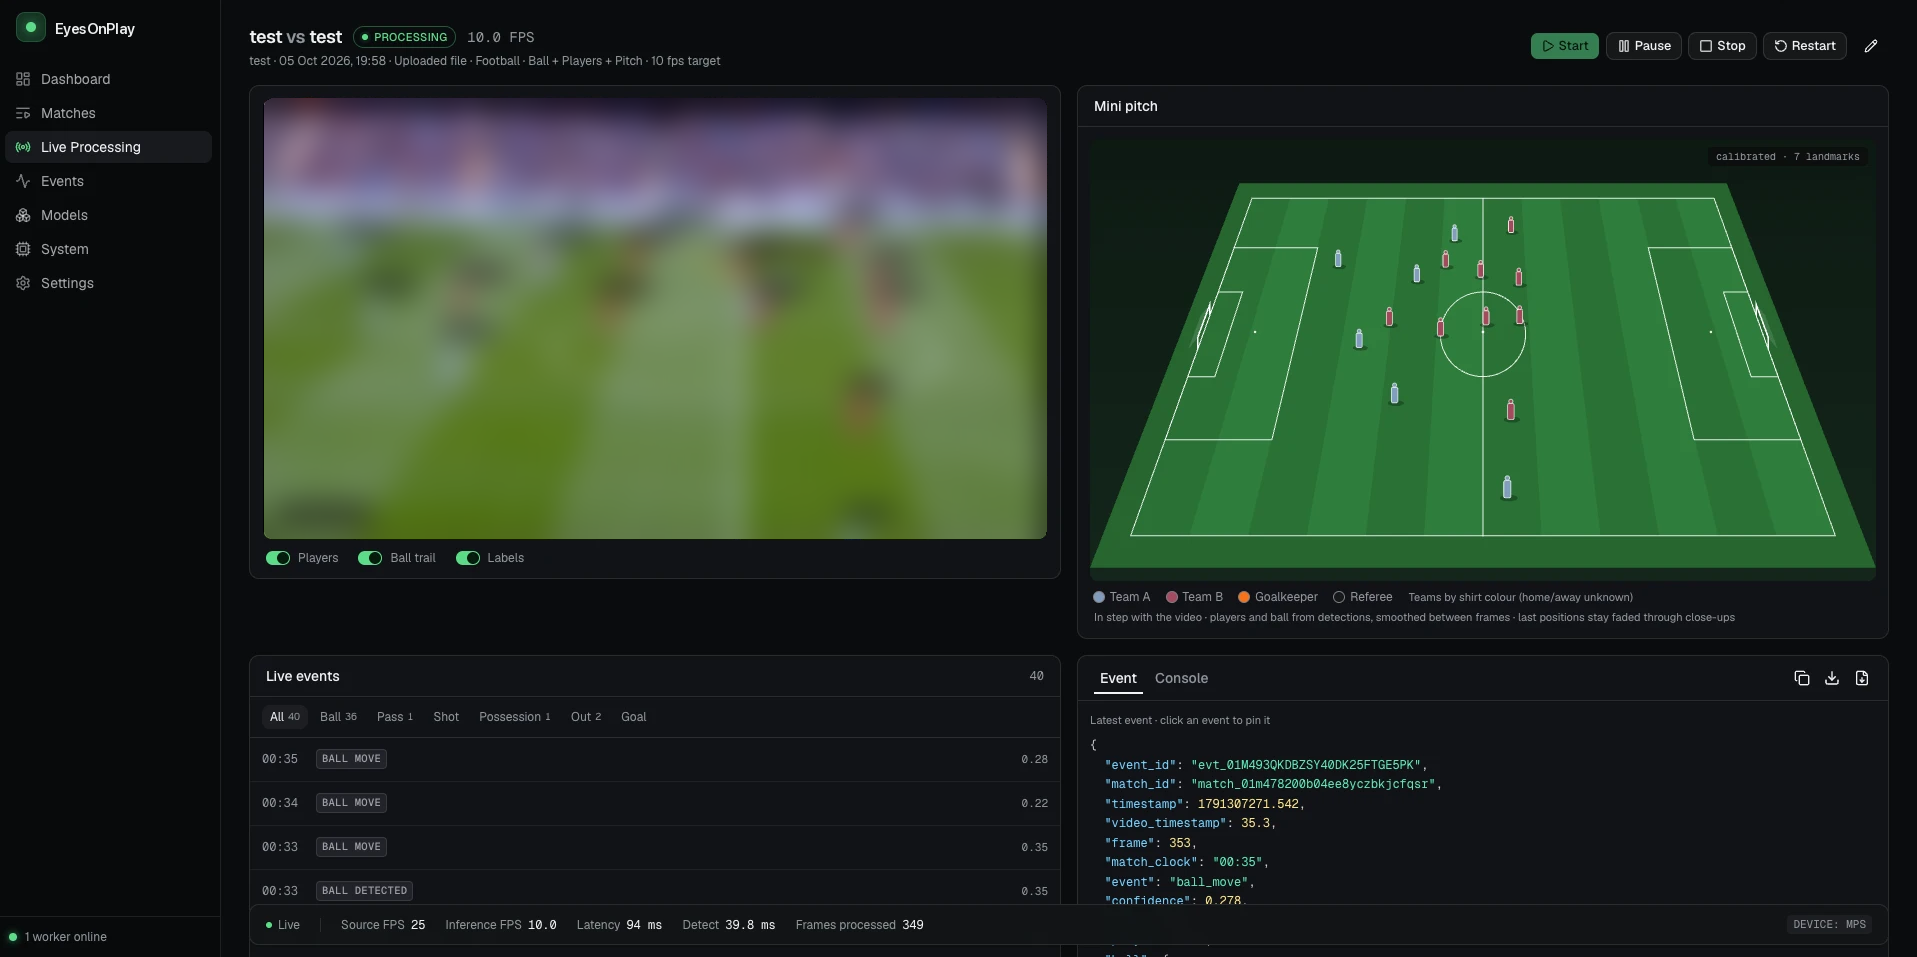
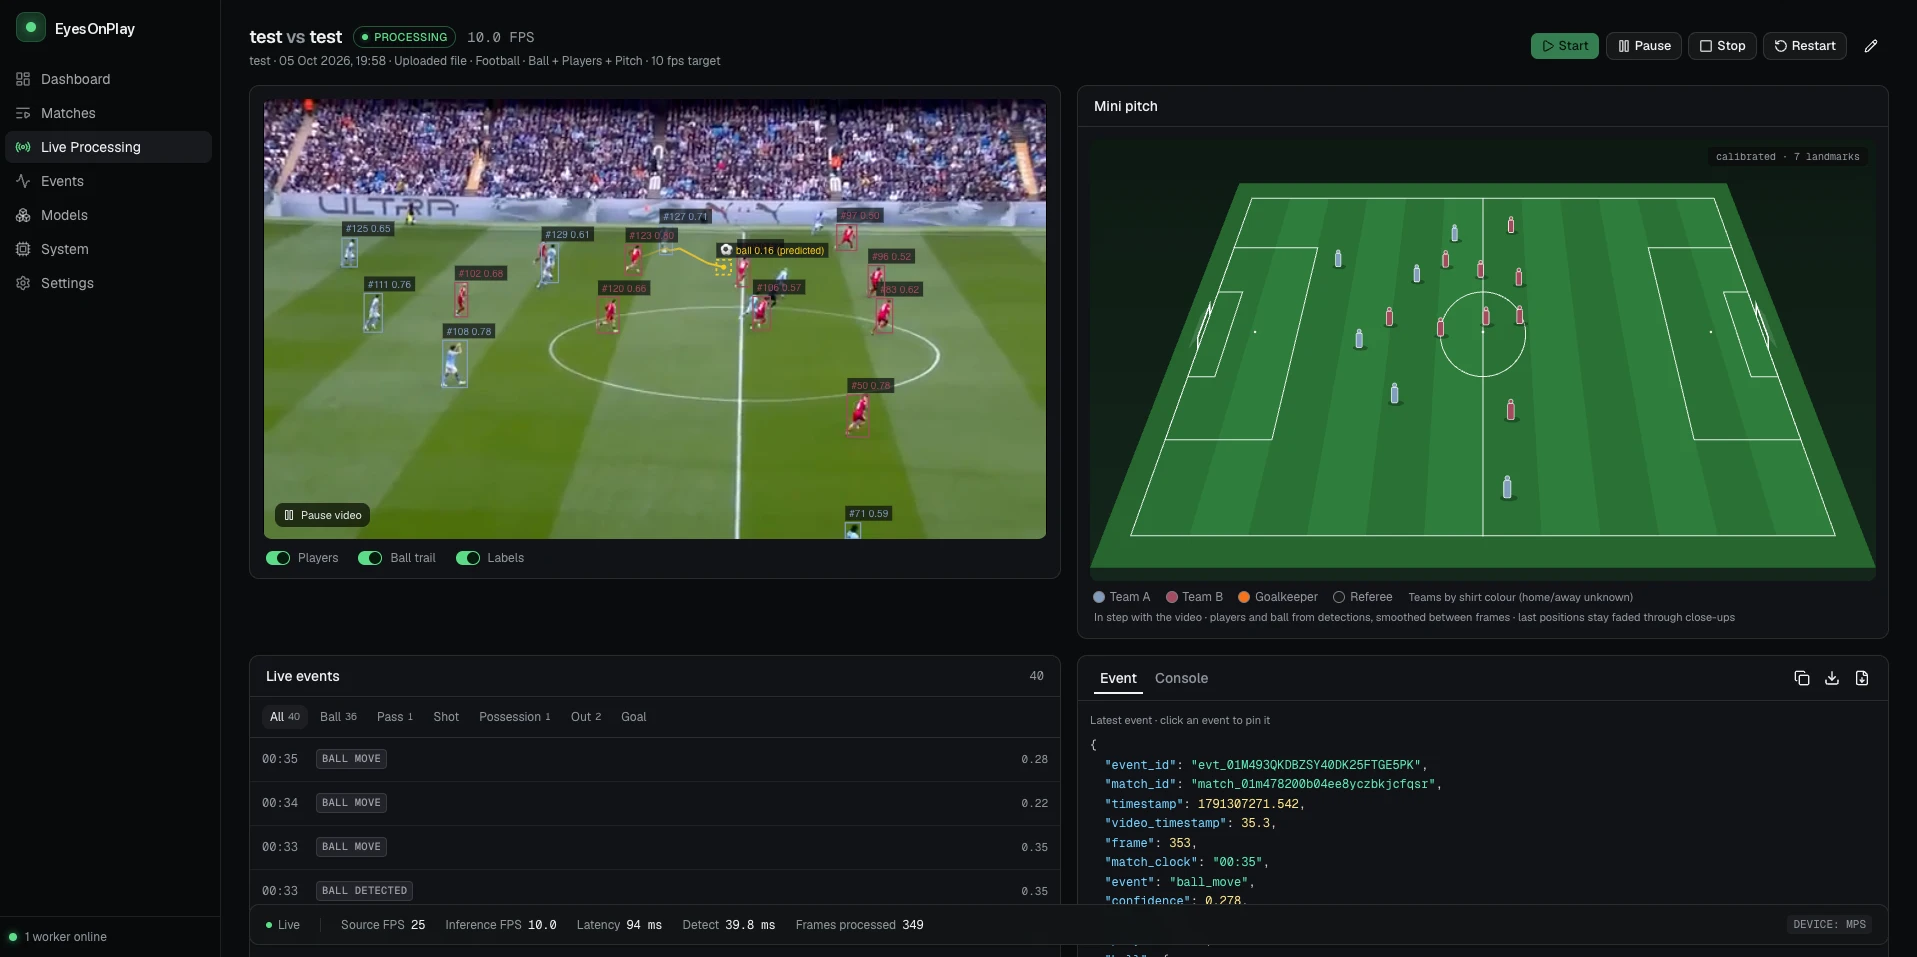
docs: show dashboard screenshots unblurred

diff --git a/README.md b/README.md
@@ -21,7 +21,7 @@ Licensed under the [GNU AGPL-3.0](LICENSE); commercial licences are available
 | ![Mini pitch: both teams in shirt colours, keepers, referee and the ball](docs/images/mini-pitch.png) | ![Mini court: near and far player, ball arc with shadow and bounce marks](docs/images/mini-court.png) |
 
 **Live dashboard** (video with detection overlay, mini view, event feed, JSON
-inspector and live metrics; broadcast footage blurred in these screenshots):
+inspector and live metrics):
 
 ![Tennis live page: video, mini court, serve/hit/bounce/point events and JSON](docs/images/dashboard-tennis.png)
 ![Football live page: video, calibrated mini pitch with both teams, events and JSON](docs/images/dashboard-football.png)
